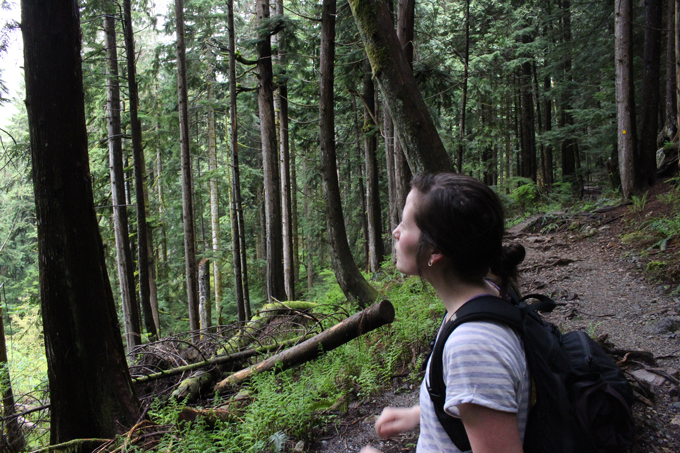
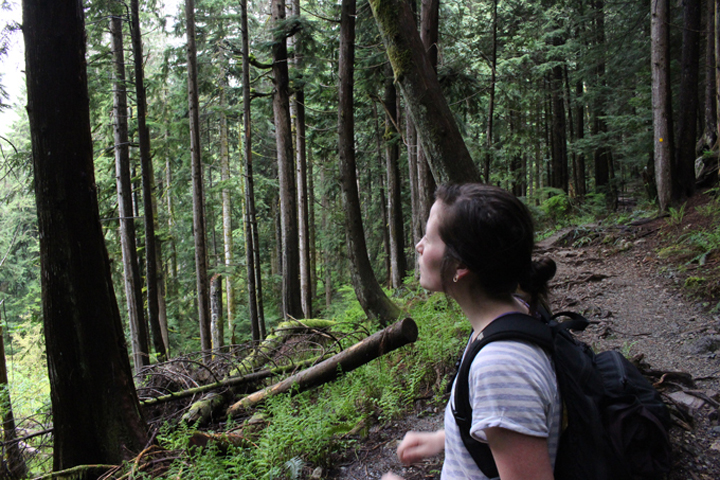
resized images to make Masonry work well at optimal sizes, implemented Masonry, Masonry needs it's own on container serperate from the pages

diff --git a/index.html b/index.html
@@ -12,67 +12,69 @@
 			<h1>PIC-O-MATIC</h2>
 			<h2>photography</h2>
 		</header>
-		<section id="content">
-			<article id="flyout">
-				<ul>
-				<li><h3>Portfolio</h3></li>
-				<a href=""><li><p>Back to Top</p></a></li><a/>
-				</ul>
-			</article>
-			<article class="piece">
-				<img src="img/01.jpg">
-			</article>
+		<section id="MasonryContainer">
+			<article id="content">
+				<article id="flyout">
+					<ul>
+					<li><h3>Portfolio</h3></li>
+					<a href=""><li><p>Back to Top</p></a></li><a/>
+					</ul>
+				</article>
+				<article class="piece">
+					<img src="img/01.jpg">
+				</article>
 
-			<article class="piece">
-				<img src="img/02.jpg">
-			</article>
+				<article class="piece">
+					<img src="img/02.jpg">
+				</article>
 
-			<article class="piece featured">
-				<img src="img/03f.jpg">
-			</article>
+				<article class="piece featured">
+					<img src="img/03f.jpg">
+				</article>
 
-			<article class="piece">
-				<img src="img/04.jpg">
-			</article>
+				<article class="piece">
+					<img src="img/04.jpg">
+				</article>
 
-			<article class="piece featured">
-				<img src="img/05f.jpg">
-			</article>
+				<article class="piece">
+					<img src="img/08.jpg">
+				</article>
 
-			<article class="piece">
-				<img src="img/06.jpg">
-			</article>
+				<article class="piece featured">
+					<img src="img/05f.jpg">
+				</article>
 
-			<article class="piece">
-				<img src="img/07.jpg">
-			</article>
+				<article class="piece">
+					<img src="img/06.jpg">
+				</article>
 
-			<article class="piece">
-				<img src="img/08.jpg">
-			</article>
+				<article class="piece">
+					<img src="img/07.jpg">
+				</article>
 
-			<article class="piece">
-				<img src="img/09.jpg">
-			</article>
+				<article class="piece">
+					<img src="img/09.jpg">
+				</article>
 
-			<article class="piece">
-				<img src="img/010.jpg">
-			</article>
+				<article class="piece">
+					<img src="img/010.jpg">
+				</article>
 
-			<article class="piece">
-				<img src="img/011.jpg">
-			</article>
+				<article class="piece">
+					<img src="img/011.jpg">
+				</article>
 
-			<article class="piece">
-				<img src="img/012.jpg">
-			</article>
+				<article class="piece">
+					<img src="img/012.jpg">
+				</article>
 
-			<article class="piece">
-				<img src="img/013f.jpg">
-			</article>
+				<article class="piece featured">
+					<img src="img/013f.jpg">
+				</article>
 
-			<article class="piece featured">
-				<img src="img/014.jpg">
+				<article class="piece">
+					<img src="img/014.jpg">
+				</article>
 			</article>
 		</section>
 		<footer>
@@ -82,6 +84,22 @@
 	<script type="text/javascript" src="js/imagesloaded.pkgd.min.js"></script>
 	<script type="text/javascript" src="js/masonry.pkgd.min.js"></script>
 	<script type="text/javascript">
+
+        var container = document.querySelector('#MasonryContainer');
+        var msnry;
+
+        imagesLoaded( container, function() {
+          msnry = new Masonry( container, {
+            columnWidth: 380,
+            itemSelector: '.piece',
+
+            isFitWidth: true,
+
+            transitionDuration: 0,
+          });
+        });
+
+    </script>
 
 	</script>
 

diff --git a/css/style.css b/css/style.css
@@ -4,6 +4,7 @@
   font-weight: normal;
   font-style: normal; }
 body {
+  position: relative;
   background: #4d4d4d;
   color: #2cb060;
   font-family: "Lato", sans-serif; }
@@ -19,10 +20,12 @@ body {
     color: #54be68; }
   body #wrapper {
     width: 100%;
-    margin: 0 auto; }
+    margin: 0; }
     body #wrapper header {
       background: #333333;
-      height: 170px; }
+      height: 170px;
+      width: 100%;
+      overflow: hidden; }
       body #wrapper header img {
         display: block;
         float: left;
@@ -39,21 +42,34 @@ body {
         position: relative;
         top: 15px;
         left: 260px; }
-    body #wrapper article#flyout {
+    body #wrapper #flyout {
       text-align: right;
       background: #333333;
       display: inline-block;
       position: fixed;
       right: 0;
       top: 230px;
-      padding-right: 10px; }
-      body #wrapper article#flyout h3 {
-        font-size: 1.5em; }
-    body #wrapper section#content {
-      width: auto;
+      padding-right: 10px;
+      z-index: 2; }
+      body #wrapper #flyout h3 {
+        font-size: 1.5em;
+        margin-bottom: 10px; }
+      body #wrapper #flyout ul {
+        padding-left: 10px; }
+    body #wrapper #MasonryContainer {
+      width: 90%;
+      position: relative;
+      top: 0px;
       margin: 0 auto;
-      padding: 20px 0 0 20px; }
-      body #wrapper section#content article.piece {
-        display: block;
-        float: left;
-        margin: 0 20px 20px 0; }
+      padding-top: 10px; }
+      body #wrapper #MasonryContainer #content {
+        width: auto;
+        margin: 0 auto; }
+        body #wrapper #MasonryContainer #content .piece {
+          display: block;
+          float: left;
+          margin: 20px;
+          width: 340px;
+          -webkit-transition: left .3s ease-in-out, top .3s ease-in-out; }
+        body #wrapper #MasonryContainer #content .featured {
+          width: 680px; }

diff --git a/css/style.scss b/css/style.scss
@@ -12,6 +12,7 @@ $bodyFont: 'Lato', sans-serif;
 };
 
 body {
+	position: relative;
 	background: #4d4d4d;
 	color: $bodyColor;
 
@@ -35,11 +36,13 @@ body {
 	#wrapper{
 
 		width: 100%;
-		margin: 0 auto;
+		margin: 0;
 
 		header {
 			background: $sectionColor;
 			height: 170px;
+			width: 100%;
+			overflow: hidden;
 
 			img {
 				display: block;
@@ -63,7 +66,7 @@ body {
 			}
 		}
 
-		article#flyout {
+		#flyout {
 			text-align: right;
 			background: $sectionColor;
 			display: inline-block;
@@ -71,24 +74,42 @@ body {
 			right: 0;
 			top: 230px;
 			padding-right: 10px; 
+			z-index: 2;
 
 			h3 {
 				font-size: 1.5em;
+				margin-bottom: 10px;
+			}
+
+			ul {
+				padding-left: 10px;
 			}
 
 		}
+		#MasonryContainer {
+				width: 90%;
+				position: relative;
+				top: 0px;
+				margin: 0 auto;
+				padding-top: 10px; 
 
-		section#content {
-			width: auto;
-			margin: 0 auto;
-			padding: 20px 0 0 20px;
+				#content {
+				width: auto;
+				margin: 0 auto;
 
-			article.piece {
+				.piece {
 				display: block;
 				float: left;
-				margin: 0 20px 20px 0;
+				margin: 20px;
+				width: 340px;
+				-webkit-transition: left .3s ease-in-out, top .3s ease-in-out;
+				}
+
+				.featured {
+					width: 680px;
+
+				}
 			}
 		}
-
 	}
 }
